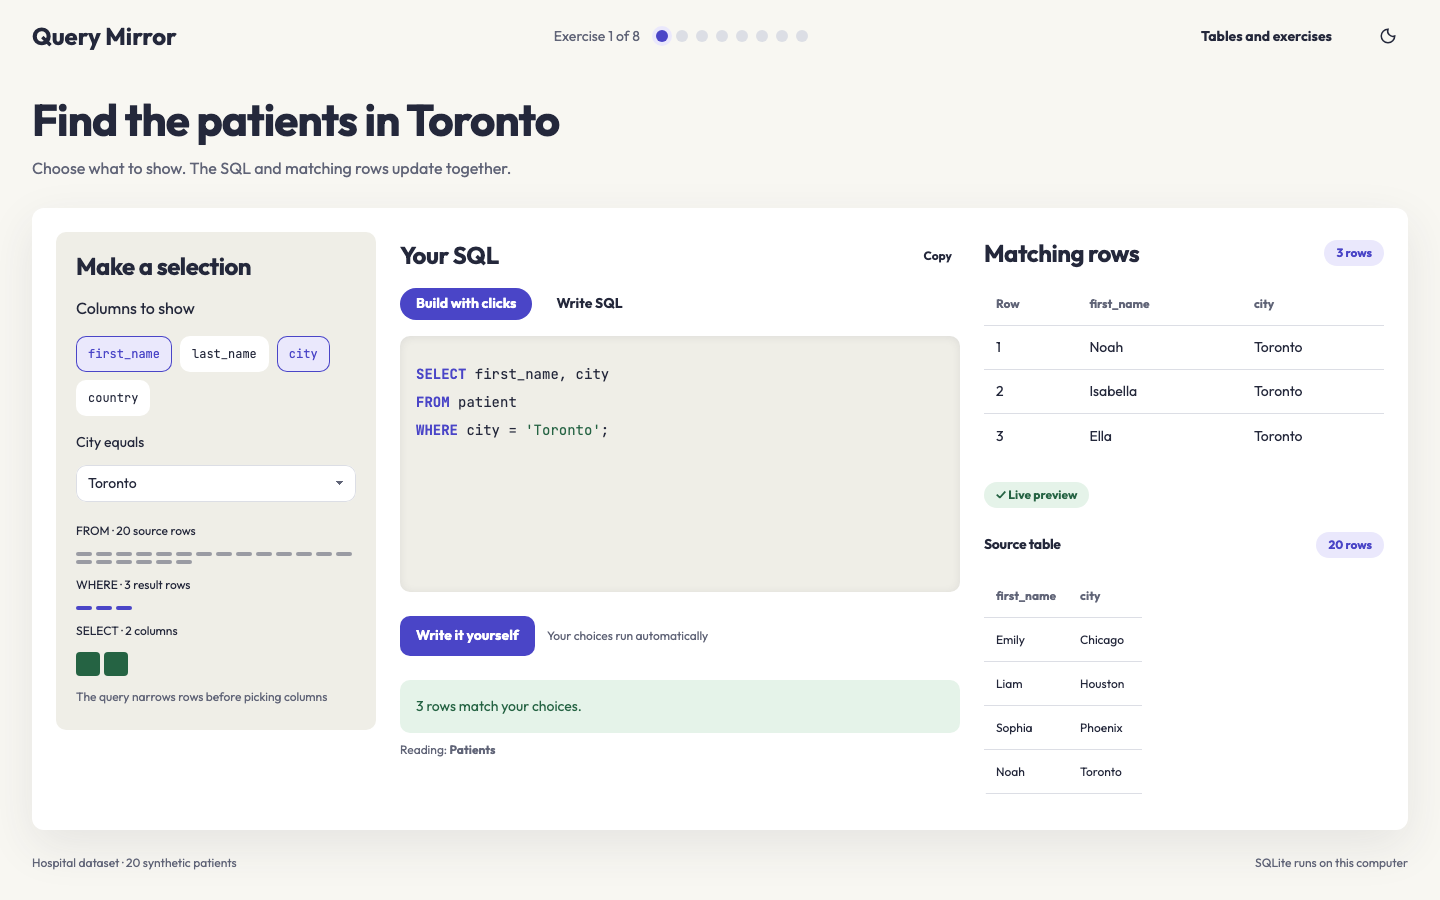
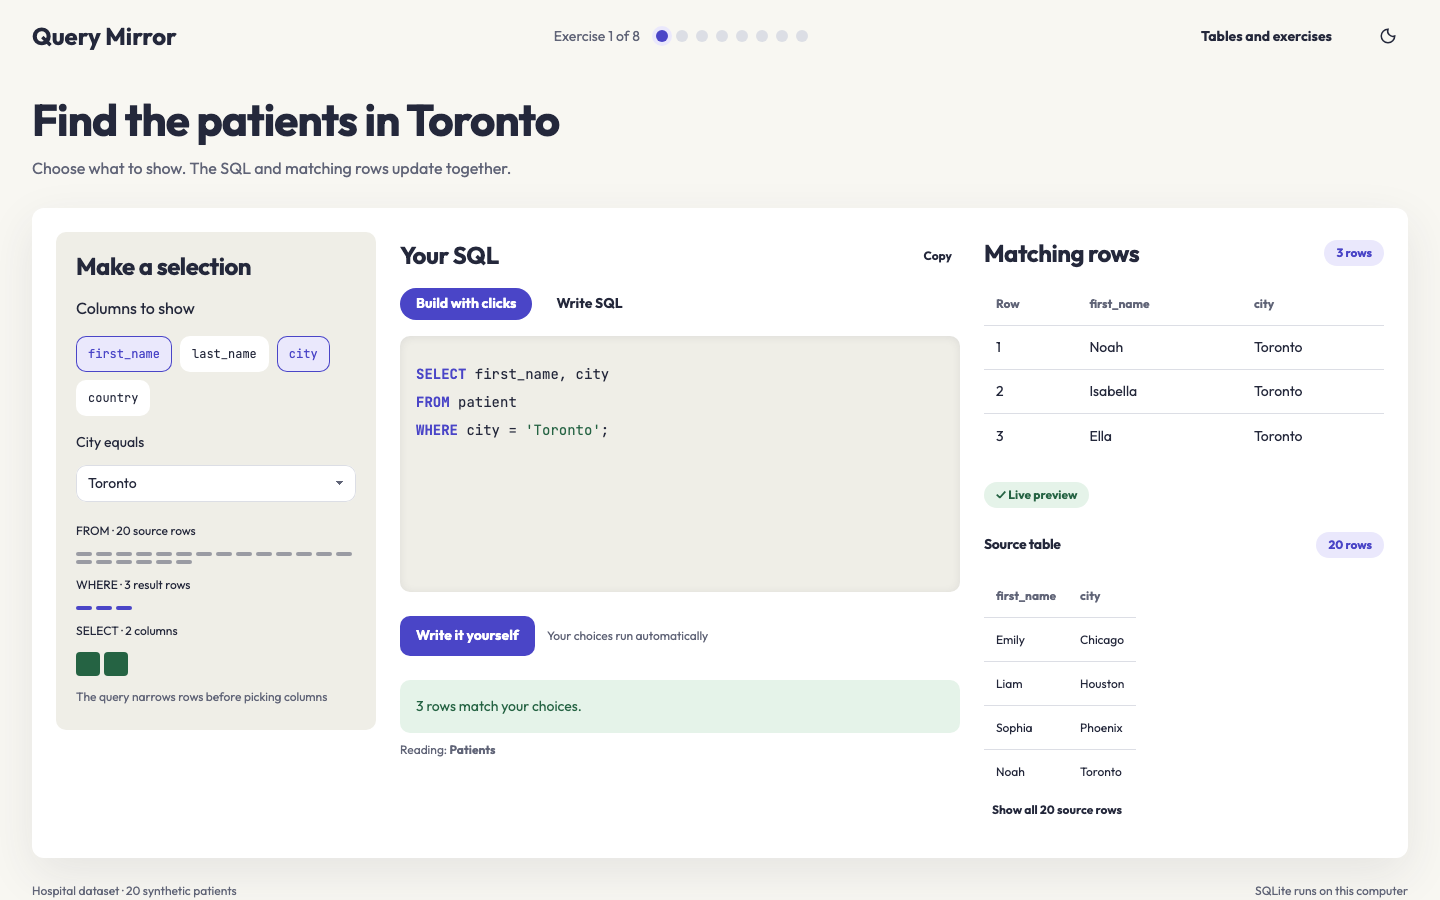
Remove clipped tables and empty lesson space
Keep query controls in flow, use real aliases, and adapt data to visible regions.

Changed region(s): [[0.0312, 0.8711, 0.9688, 0.9956]]

diff --git a/app.js b/app.js
@@ -209,12 +209,16 @@ function runMirror() {
   } catch (e) { lastError = e.message; }
 }
 
+function joinPredicate(predicate) {
+  return (predicate || '').replace(/'(?:''|[^'])*'|\b[a-zA-Z_]\w*\s*\.\s*[a-zA-Z_]\w*/g, token => token.charCodeAt(0)===39 ? token : token.replace(/\s*\.\s*/g,'.'));
+}
 function renderSchema() {
   const narrow = window.matchMedia('(max-width:700px)').matches;
   const schema = schemas[state.db];
   // In practice the hidden target is never traced; edits do not replace the last run.
   const trace = ER.queryPath(tracedDB === state.db ? tracedSQL : '', schema);
   const active = new Set(trace.instances.map(t => t.table));
+  const verticalPath = narrow || trace.instances.length * 220 > $('#query-path').clientWidth;
   fill($('#schema-status'), trace.message || tracedLabel + ' · ' + trace.instances.length + ' table instances · ' + trace.joins.length + ' joins');
   const instanceLabel = id => { const t = trace.instances.find(t => t.id === id); return t ? t.table + (t.alias === t.table ? '' : ' AS ' + t.alias) : '?'; };
   fill($('#query-path'),
@@ -222,11 +226,10 @@ function renderSchema() {
       h('span', { class: 'erd-instance' }, (i + 1) + ' · ' + instanceLabel(t.id)))) : null,
     trace.joins.length ? h('ol', { class: 'erd-joins' }, trace.joins.map(j => h('li', { class: j.matches.length ? 'erd-declared' : 'erd-unlinked' },
       h('strong', {}, j.kind.toUpperCase() + ' ' + instanceLabel(j.target)),
-      h('code', {}, j.predicate || 'No ON condition (all combinations)'),
-      h('span', {}, j.note),
-      j.pairs.map(p => h('small', {}, p.a.instance.alias + '.' + p.a.column + ' ' + p.operator.toUpperCase() + ' ' + p.b.instance.alias + '.' + p.b.column))))) : null);
+      h('code', {}, joinPredicate(j.predicate) || 'No ON condition (all combinations)'),
+      h('span', {}, j.note)))) : null);
   if (trace.instances.length) {
-    const pathGraph = h('svg', { width:narrow ? 296 : trace.instances.length * 220, height:narrow ? trace.instances.length * 120 : 100 + trace.joins.length * 26, class:'erd-svg', 'aria-hidden':'true', focusable:'false' });
+    const pathGraph = h('svg', { width:verticalPath ? 296 : trace.instances.length * 220, height:verticalPath ? trace.instances.length * 120 : 100 + trace.joins.length * 26, class:'erd-svg', 'aria-hidden':'true', focusable:'false' });
     trace.joins.forEach((join,index) => {
       const target = trace.instances.findIndex(table=>table.id===join.target);
       const sources = [...new Set(join.pairs.map(pair=>pair.a.instance.id===join.target ? pair.b.instance.id : pair.a.instance.id))];
@@ -235,24 +238,24 @@ function renderSchema() {
         const from = trace.instances.findIndex(table=>table.id===id);
         const y = 95 + index * 26;
         const gutter = 236 + index % 4 * 12;
-        const path = narrow
+        const path = verticalPath
           ? 'M108 '+(from*120+68)+' H'+gutter+' V'+(target*120+8)+' H108'
           : 'M '+(from*220+108)+' 68 V '+y+' H '+(target*220+108)+' V68';
         pathGraph.append(h('path', {d:path, class:join.matches.length ? 'erd-edge erd-active-edge' : 'erd-edge erd-query-edge'}));
-        if (!narrow) pathGraph.append(h('text', {x:(from+target)*110+108,y:y-5,'text-anchor':'middle'}, 'Join '+(index+1)+(join.matches.length ? ' · FK' : ' · no confirmed FK')));
+        if (!verticalPath) pathGraph.append(h('text', {x:(from+target)*110+108,y:y-5,'text-anchor':'middle'}, 'Join '+(index+1)+(join.matches.length ? ' · FK' : ' · no confirmed FK')));
       });
     });
     trace.instances.forEach((table,index) => {
-      const x = narrow ? 8 : index * 220 + 8;
-      const y = narrow ? index * 120 + 8 : 8;
+      const x = verticalPath ? 8 : index * 220 + 8;
+      const y = verticalPath ? index * 120 + 8 : 8;
       pathGraph.append(h('g', {class:'erd-table erd-active-table'},
-        h('rect', {x,y,width:200,height:60,rx:8}),
+        h('rect', {x,y,width:verticalPath?260:200,height:60,rx:8}),
         h('text', {x:x+12,y:y+24,class:'erd-title'}, table.table),
-        h('text', {x:x+12,y:y+46}, table.alias===table.table ? 'Source table' : narrow ? 'Alias '+(index+1) : 'AS '+table.alias)));
+        h('text', {x:x+12,y:y+46}, table.alias===table.table ? 'Source table' : 'AS '+table.alias)));
     });
     $('#query-path').prepend(h('div', {class:'erd-scroll',tabindex:'0',role:'region','aria-label':'Query join diagram. Each numbered alias is named in full below.'},pathGraph));
   }
-  const across = narrow ? 1 : 3;
+  const across = narrow ? 1 : Math.max(1,Math.min(3,Math.floor(($('#schema-graph').clientWidth-24)/310)));
   const positions = new Map(schema.tables.map((table,index)=>[table.name,{x:narrow?16:32+(index%across)*310,y:32+Math.floor(index/across)*340}]));
   const width = narrow ? 296 : Math.min(across,schema.tables.length)*310+24;
   const height = Math.ceil(schema.tables.length/across)*340;
@@ -324,7 +327,7 @@ function renderControls() {
         row.append(inp);
         if (col.opts && !document.getElementById('dl-' + col.id)) document.body.append(h('datalist', { id: 'dl-' + col.id }, col.opts.map(o => h('option', { value: o }))));
       }
-      row.append(h('button', { type: 'button', class: 'icon-del', 'aria-label': 'Remove condition', onclick: () => { state.filters.splice(i, 1); update(); } }, '×'));
+      row.append(h('button', { type: 'button', class: 'icon-del', 'aria-label': 'Remove condition', onclick: () => { state.filters.splice(i, 1); update(); } }, 'Remove'));
       return [i ? sel([{ v: 'AND', t: 'AND · both must match' }, { v: 'OR', t: 'OR · either can match' }], f.join || 'AND', v => { f.join = v; update(); }, { 'aria-label': 'Join condition ' + (i + 1) }) : null,
         row, f.op === 'LIKE' ? h('p', { class: 'none' }, '% matches any text; _ matches one character.') : null];
     }) : h('p', { class: 'none' }, 'No conditions — every row passes.'),
@@ -343,7 +346,7 @@ function renderControls() {
       sel(Object.entries(g.aggs).map(([cid, fn]) => ({ v: cid + '|' + fn, t: Q.AGG_LABELS[fn] + ' of ' + (colById(cid) || {}).label })), x.aggCol, v => { x.aggCol = v; update(); }, { 'aria-label': 'Aggregate' }),
       sel(Q.HAV_OPS.map(o => ({ v: o.label, t: o.label })), x.op, v => { x.op = v; update(); }, { 'aria-label': 'Condition' }),
       h('input', { class: 'ctl-inp', type: 'number', value: x.val, placeholder: 'number', 'aria-label': 'Value', oninput: e => { x.val = e.target.value; update({ controls: false }); } }),
-      h('button', { type: 'button', class: 'icon-del', 'aria-label': 'Remove condition', onclick: () => { g.having.splice(i, 1); update(); } }, '×'))) : null
+      h('button', { type: 'button', class: 'icon-del', 'aria-label': 'Remove condition', onclick: () => { g.having.splice(i, 1); update(); } }, 'Remove'))) : null
   );
   const simpleCity = state.tables.length === 1 && state.tables[0] === 'patient' && !state.group && state.filters.length <= 1 && (!state.filters.length || state.filters[0].col === 'pa_city' && state.filters[0].op === 'equals');
   const quickCity = simpleCity ? h('div', {class:'quick-city'}, h('label', {for:'quick-city'}, 'City equals'),
@@ -353,7 +356,7 @@ function renderControls() {
   fill(box, filters, sum);
 }
 // runPractice and the mirror's own buttons re-render only this panel, so it keeps focus the same way update() does
-function renderMirror() { const find = focusKey(document.activeElement); renderMirrorPanel(); restoreFocus(find); }
+function renderMirror() { const find = focusKey(document.activeElement); renderMirrorPanel(); fitTables(); restoreFocus(find); }
 function renderMirrorPanel() {
   const m = $('#mirror');
   if (!state.tables.length) {
@@ -472,12 +475,16 @@ function shareTask() {
   if (navigator.clipboard && navigator.clipboard.writeText) navigator.clipboard.writeText(url).then(() => toast('Task link copied — it opens straight in practice mode'), () => toast('Copy failed: ' + url, { alert: true, ms: 6000 }));
   else toast(url, { ms: 6000 });
 }
+function columnName(label) {
+  if (!label.includes('||')) return label;
+  return h('span', {class:'expression-name'}, label.split('||').map((part,index) => h('span', {}, (index ? '||' : '') + part)));
+}
 function cellNode(value, label) {
   const numeric = typeof value === 'number';
   const missing = value === null || value === undefined;
   const text = missing ? '—' : numeric && !Number.isInteger(value) ? String(Number(value.toFixed(4))) : String(value);
   return h('td', { class: numeric ? 'num' : null, title: numeric && !Number.isInteger(value) ? String(value) : null },
-    h('span', {class:'cell-label'}, label),
+    h('span', {class:'cell-label'}, columnName(label)),
     h('span', {class:'cell-value'}, missing ? h('span', {class:'null'}, text) : text));
 }
 function resultTable(res, opts = {}) {
@@ -488,21 +495,21 @@ function resultTable(res, opts = {}) {
   const numeric = res.columns.map((_, j) => { const vals = res.rows.map(r => r[j]).filter(v => v !== null && v !== undefined); return vals.length > 0 && vals.every(v => typeof v === 'number'); });
   return h('table', { class: 'data' + (opts.compact ? ' compact' : ''), 'data-layout':res.columns.length + (opts.rowNumbers ? 1 : 0) > 3 ? 'records' : 'columns' },
     h('thead', {}, h('tr', {}, opts.rowNumbers ? h('th', {scope:'col', 'data-row-number':true}, 'Row') : null, res.columns.map((c, j) => {
-      if (!opts.sortable) return h('th', { scope: 'col', class: numeric[j] ? 'num' : null }, c);
+      if (!opts.sortable) return h('th', { scope: 'col', class: numeric[j] ? 'num' : null }, columnName(c));
       const col = cols().find(x => x.label === c || x.expr.replace(/\b[a-z]+\./g, '') === c);
       const active = col && state.sort && state.sort.col === col.id;
       return h('th', { scope: 'col', class: numeric[j] ? 'num' : null, 'aria-sort': active ? (state.sort.dir === 'ASC' ? 'ascending' : 'descending') : null },
-        col ? h('button', { type: 'button', onclick: () => clickSort(col.id), title: 'Sort by ' + c }, c) : c);
+        col ? h('button', { type: 'button', onclick: () => clickSort(col.id), title: 'Sort by ' + c }, columnName(c)) : columnName(c));
     }))),
     h('tbody', {}, rows.length ? rows.map((r, i) => h('tr', { class: miss.has(i) ? 'miss' : (extra.has(i) ? 'extra' : null) }, opts.rowNumbers ? h('td', {'data-row-number':true}, h('span', {class:'cell-label'}, 'Row'), h('span', {class:'cell-value'}, i + 1)) : null, r.map((value,index) => cellNode(value,res.columns[index]))))
       : h('tr', {}, h('td', { class: 'empty-row', colspan: res.columns.length + (opts.rowNumbers ? 1 : 0) || 1 }, opts.empty ? opts.empty : [h('b', {}, 'No rows match'), ' — loosen a condition above',
           opts.sortable && state.filters.length ? [', or ', h('button', { type: 'button', class: 'btn btn-sm', onclick: () => { state.filters = []; update(); } }, 'Remove all conditions')] : '.']))),
-    res.rows.length > limit ? h('tfoot', {}, h('tr', {}, h('td', { colspan: res.columns.length, class: 'faint', style: 'font-size:var(--text-2xs)' }, '+ ' + (res.rows.length - limit) + ' more rows'))) : null);
+    res.rows.length > limit && opts.more !== false ? h('tfoot', {}, h('tr', {}, h('td', { colspan: res.columns.length, class: 'faint', style: 'font-size:var(--text-2xs)' }, '+ ' + (res.rows.length - limit) + ' more rows'))) : null);
 }
 let colsOpen = false;
 // the Columns button, its checkboxes and the header buttons are rebuilt on every change: keep focus on the same control
 // (Enter on Columns, or Space on a checkbox, left focus on <body>; 2026-09-16)
-function renderResults() { const find = focusKey(document.activeElement); renderResultsPanel(); restoreFocus(find); }
+function renderResults() { const find = focusKey(document.activeElement); renderResultsPanel(); fitTables(); restoreFocus(find); }
 function renderResultsPanel() {
   const r = $('#results');
   const optionsOpen = $('#result-controls .result-options')?.open || false;
@@ -540,12 +547,14 @@ function renderResultsPanel() {
   const resultOptions = r.querySelector('.result-options');
   if (resultOptions) $('#result-controls').replaceChildren(resultOptions);
 }
+let sourceExpanded = false;
 function renderSource() {
   if (!ready || !state.tables.length) return null;
   const table = state.tables[0];
   const source = exec(state.db, table==='patient' ? 'SELECT first_name, city FROM patient' : 'SELECT * FROM "' + table + '"');
   return h('section', {class:'source-table'}, h('div', {class:'result-heading'}, h('h3', {}, 'Source table'), h('span', {class:'row-count'}, source.rows.length + ' rows')),
-    h('div', {class:'tablewrap', tabindex:'0', role:'region', 'aria-label':'Source rows'}, resultTable(source)));
+    h('div', {class:'tablewrap', tabindex:'0', role:'region', 'aria-label':'Source rows'}, resultTable(source,{limit:sourceExpanded?Infinity:4,more:false})),
+    source.rows.length>4 ? h('button',{id:'source-more',class:'btn btn-ghost btn-sm','aria-expanded':String(sourceExpanded),onclick:()=>{sourceExpanded=!sourceExpanded;renderResults();}},sourceExpanded?'Show four source rows':'Show all '+source.rows.length+' source rows') : null);
 }
 function renderLesson() {
   const task = currentExercise();
@@ -566,6 +575,7 @@ function renderLesson() {
     h('figcaption', {}, state.group ? 'Rows are grouped before the result is returned' : 'The query narrows rows before picking columns'));
   const practicing = mode === 'practice';
   $('.bench').classList.toggle('practice-workspace', practicing);
+  fitTables();
 }
 const options = $('#options');
 const optionsButton = $('#reference-open');
@@ -643,5 +653,20 @@ function engineFailed() {
   return h('div', { class: 'error', role: 'alert' }, h('h3', {}, 'SQLite could not start'), h('p', { class: 'muted', style: 'font-size:var(--text-xs)' }, 'The SQL engine ships inside this folder (vendor/) and did not load in this browser. Reload; if it persists, the files were served incompletely.'),
     h('div', {}, h('button', { type: 'button', class: 'btn btn-sm', onclick: () => location.reload() }, 'Reload')));
 }
+
+function fitTables() {
+  for (const table of document.querySelectorAll('table[data-layout]')) {
+    if (!table.checkVisibility()) continue;
+    table.classList.remove('as-records');
+    const region = table.closest('.tablewrap') || table.parentElement;
+    const phoneRecords = innerWidth<=700 && table.dataset.layout==='records';
+    table.classList.toggle('as-records',phoneRecords || table.scrollWidth>region.clientWidth+1);
+  }
+}
+window.addEventListener('resize', () => {
+  const find=focusKey(document.activeElement);
+  fitTables(); renderSchema(); fitEditor($('#editor')); restoreFocus(find);
+});
+
 boot();
 })();

diff --git a/index.html b/index.html
@@ -8,11 +8,11 @@
 <meta name="theme-color" content="#f8f7f2" media="(prefers-color-scheme: light)">
 <meta name="theme-color" content="#161724" media="(prefers-color-scheme: dark)">
 <title>Query Mirror</title>
-<link rel="icon" href="favicon.svg?v=3.1.0" type="image/svg+xml">
-<link rel="apple-touch-icon" href="apple-touch-icon.png?v=3.1.0">
-<link rel="stylesheet" href="fonts.css?v=3.1.0">
-<link rel="stylesheet" href="design-tokens.css?v=3.1.0">
-<link rel="stylesheet" href="app.css?v=3.1.0">
+<link rel="icon" href="favicon.svg?v=3.2.0" type="image/svg+xml">
+<link rel="apple-touch-icon" href="apple-touch-icon.png?v=3.2.0">
+<link rel="stylesheet" href="fonts.css?v=3.2.0">
+<link rel="stylesheet" href="design-tokens.css?v=3.2.0">
+<link rel="stylesheet" href="app.css?v=3.2.0">
 </head>
 <body>
 <a class="skip" href="#main">Skip to content</a>
@@ -23,7 +23,7 @@
  <button class="btn btn-ghost btn-icon" id="theme" aria-label="Switch to dark theme"><svg viewBox="0 0 24 24" width="18" height="18" aria-hidden="true"><path d="M12 3a9 9 0 1 0 9 9 7 7 0 0 1-9-9Z" fill="none" stroke="currentColor" stroke-width="2"/></svg></button>
 
 </header>
-<details class="options" id="options"><summary>Datasets and exercises</summary><div class="subbar" id="subbar" role="region" aria-label="Dataset and mode"></div><section class="exercise-set" id="exercises" aria-label="Exercise set"></section>      <details id="tables"><summary>Choose tables</summary><p class="hint">Linked tables are joined for you.</p><ul class="tbl-list" id="tbl-list"></ul></details><div id="result-controls"></div><section class="card" id="controls" aria-label="Query controls"><div class="ctl" id="ctl"></div></section> <button class="btn btn-ghost btn-icon" id="help" aria-label="Help">?</button></details>
+<details class="options" id="options"><summary>Datasets and exercises</summary><div class="subbar" id="subbar" role="region" aria-label="Dataset and mode"></div><section class="exercise-set" id="exercises" aria-label="Exercise set"></section>      <details id="tables"><summary>Choose tables</summary><p class="hint">Linked tables are joined for you.</p><ul class="tbl-list" id="tbl-list"></ul></details><div id="result-controls"></div><section class="card" id="controls" aria-label="Query controls"><div class="ctl" id="ctl"></div></section> <button class="btn btn-ghost btn-icon" id="help" aria-label="Help">Help</button></details>
 <main class="main" id="main" tabindex="-1">
   <div class="task-heading"><h1 id="task-title">Find the patients in Toronto</h1><p id="task-subtitle">Choose what to show. The SQL and matching rows update together.</p></div>
   <p class="grading-note" id="grading-note">Graded on results. Equivalent answers pass, and you see missing or extra rows.</p>
@@ -43,7 +43,7 @@
       <section class="card" id="schema-panel" aria-labelledby="schema-heading">
         <details id="schema-details" open>
           <summary id="schema-heading">Schema &amp; query path</summary>
-          <p class="hint">PK = primary key · FK = foreign key. Solid lines are declared relationships; dashed lines are joins without a confirmed foreign key. Highlighted tables and lines belong to the last executed query. Scroll either diagram to explore, or open the text version below.</p>
+          <p class="hint">PK = primary key · FK = foreign key. Solid lines are declared relationships; dashed lines are joins without a confirmed foreign key. Highlighted tables and lines belong to the last executed query. The diagrams fit the available width. Open the text version below for the same relationships.</p>
           <p id="schema-status" role="status"></p>
           <div id="query-path"></div>
           <div id="schema-graph" class="erd-scroll" tabindex="0" role="region" aria-label="Schema diagram, scroll to explore"></div>
@@ -66,11 +66,11 @@
 </details>
 <div class="toasts" id="toasts" aria-live="polite"></div>
 <dialog id="dlg"></dialog>
-<script src="vendor/sql-wasm.js?v=3.1.0"></script>
-<script src="vendor/sql-wasm-b64.js?v=3.1.0"></script>
-<script src="engine.js?v=3.1.0"></script>
-<script src="schema.js?v=3.1.0"></script>
-<script src="appearance.js?v=3.1.0"></script>
-<script src="app.js?v=3.1.0"></script>
+<script src="vendor/sql-wasm.js?v=3.2.0"></script>
+<script src="vendor/sql-wasm-b64.js?v=3.2.0"></script>
+<script src="engine.js?v=3.2.0"></script>
+<script src="schema.js?v=3.2.0"></script>
+<script src="appearance.js?v=3.2.0"></script>
+<script src="app.js?v=3.2.0"></script>
 </body>
 </html>

diff --git a/app.css b/app.css
@@ -646,3 +646,85 @@ table.compact th,table.compact td { height:40px; }
 @media(max-width:700px) {
   table[data-layout=records] thead th[aria-sort] button { background:var(--accent); color:var(--on-accent); }
 }
+
+
+/* Review: content determines card height, and controls never sit under a popover. */
+.practice-workspace { min-height:0; }
+.cols:has(.menu) { flex:1 1 100%; }
+.cols .menu { position:static; width:max-content; max-width:100%; min-width:0; max-height:none; overflow:visible; margin-top:12px; }
+.ctl h3 { justify-content:flex-start; gap:16px; flex-wrap:wrap; }
+.ctl h3 .btn { margin-left:0; }
+.icon-del { width:auto; height:auto; min-height:32px; padding:4px 8px; font:700 12px/1.5 var(--body); }
+#help { width:auto; padding:8px 12px; }
+.tablewrap,.source-table .tablewrap,.erd-scroll { overflow:visible; max-height:none!important; }
+table.as-records { width:100%; max-width:100%; min-width:0!important; table-layout:fixed; }
+table.as-records th,table.as-records td { white-space:normal; overflow:visible; overflow-wrap:anywhere; max-width:none; }
+table.as-records thead th { position:static; }
+.expression-name { display:inline-flex; flex-wrap:wrap; gap:0 4px; text-align:left; }
+.expression-name > span { white-space:pre; overflow-wrap:normal; word-break:normal; }
+.expected-preview:has(table.as-records) { width:min(480px,100%); }
+  table.as-records,table.as-records tbody { display:block; }
+  table.as-records thead { display:block; margin-bottom:12px; }
+  table.as-records thead tr { display:flex; flex-wrap:wrap; gap:8px; }
+  table.as-records thead th { display:block; height:auto; padding:0; background:transparent; border:0; }
+  table.as-records thead th:not(:has(button)) { display:none; }
+  table.as-records thead th button {
+    display:inline-flex;
+    box-sizing:border-box;
+    padding:8px 12px;
+    height:auto;
+    min-height:36px;
+    background:var(--soft);
+    border-radius:999px;
+    font-size:12px;
+    white-space:normal;
+    text-align:left;
+  }
+  table.as-records thead th.num button { width:auto; justify-content:flex-start; }
+  table.as-records tbody tr {
+    display:block;
+    padding:12px;
+    margin-bottom:12px;
+    border-radius:10px;
+    background:var(--soft);
+  }
+  table.as-records tbody td,table.as-records tbody td.num {
+    display:grid;
+    grid-template-columns:minmax(0,1fr) minmax(0,1.4fr);
+    align-items:start;
+    gap:8px 12px;
+    height:auto;
+    min-height:32px;
+    padding:8px 0;
+    border:0;
+    text-align:left;
+  }
+  table.as-records .cell-label {
+    display:block;
+    font:700 12px/1.5 var(--body);
+    color:var(--muted);
+    overflow-wrap:anywhere;
+  }
+  table.as-records .cell-value {
+    display:block;
+    font-size:14px;
+    line-height:1.5;
+    overflow-wrap:anywhere;
+  }
+table.as-records thead th[aria-sort] button { background:var(--accent); color:var(--on-accent); }
+
+.options[open] { width:min(calc(100% - 64px),840px); margin-left:32px; }
+.cols .menu { width:100%; display:grid; grid-template-columns:repeat(auto-fit,minmax(140px,1fr)); gap:8px 16px; padding:16px; }
+.cols .menu .sect { grid-column:1/-1; margin:0; }
+.cols .menu label { min-height:32px; }
+.ctl .row { grid-template-columns:minmax(0,1fr) minmax(0,1fr) max-content; }
+.ctl .row .icon-del { justify-self:start; }
+table.as-records td.empty-row { display:block; }
+@media(max-width:700px) {
+ .options[open] { width:calc(100% - 32px); margin-left:16px; }
+ .ctl .row,#options .ctl .row.two { grid-template-columns:minmax(0,1fr); }
+}
+
+table.data thead th { position:static; }
+
+.bench { min-height:0; }

diff --git a/README.md b/README.md
@@ -21,7 +21,7 @@ cd SQL-Viz-for-Edu
 node check.mjs
 ```
 
-The opening lesson generates SELECT first_name, city FROM patient WHERE city = 'Toronto'; and uses those column names in the chips and both tables. Matching rows includes row numbers and a Live preview status. The source preview shows the real teaching rows beside the result. **Tables and exercises** contains all four datasets, 32 saved exercises, table selection and advanced query controls. **Result options** there contains columns, duplicate handling, sort and limit.
+The opening lesson generates SELECT first_name, city FROM patient WHERE city = 'Toronto'; and uses those column names in the chips and both tables. Matching rows includes row numbers and a Live preview status. The source preview shows four real teaching rows beside the result; Show all source rows reveals the rest. Wide tables become labeled records when their columns do not fit, at every viewport width. **Tables and exercises** contains all four datasets, 32 saved exercises, table selection and advanced query controls. **Result options** there contains columns, duplicate handling, sort and limit.
 
 Explore follows your clicks; Practice hides the target SQL and compares results instead of requiring identical wording. Eight exercises per dataset include hints and save progress in this browser when storage is available. Clearing site data removes that progress. The screenshot shows the opening lesson. The demo link opens the Movies dataset.
 
